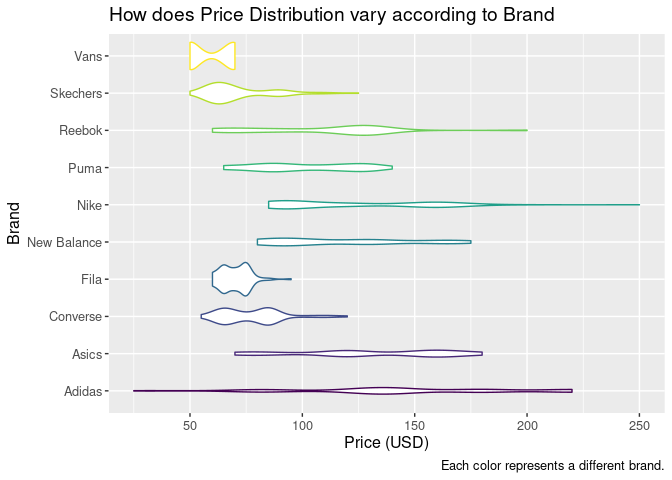
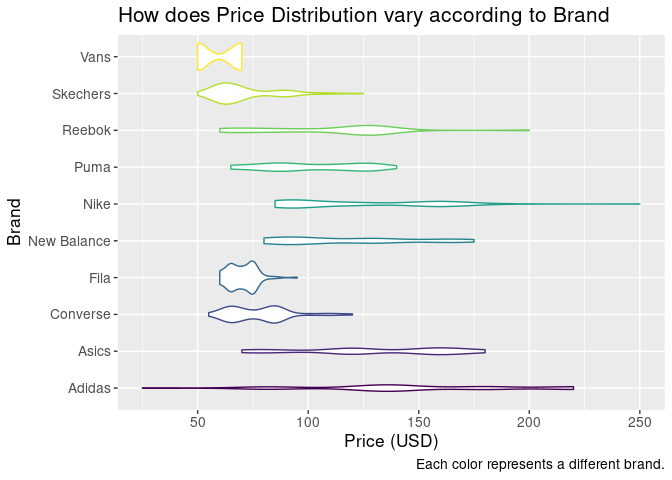
updated shoelati

diff --git a/README.md b/README.md
@@ -6,6 +6,8 @@
 \#insert my hex sticker
 
 <!-- badges: start -->
+
+<img src="man/figures/hex-shoelati.png" width="0.1" />
 <!-- badges: end -->
 
 shoelati uses data on shoes collected from a particular region (last
@@ -115,16 +117,7 @@ ggplot(data = shoelati, mapping = aes(x = price_usd, y = brand, color = brand)) 
        x = "Price (USD)",
        y = "Brand",
        caption = "Each color represents a different brand.") +
-  theme(text = element_text(size = 12))
+  theme(text = element_text(size = 13))
 ```
 
 <img src="man/figures/README-price-brand-1.png" width="100%" />
-
-You’ll still need to render `README.Rmd` regularly, to keep `README.md`
-up-to-date. `devtools::build_readme()` is handy for this. You could also
-use GitHub Actions to re-render `README.Rmd` every time you push. An
-example workflow can be found here:
-<https://github.com/r-lib/actions/tree/v1/examples>.
-
-In that case, don’t forget to commit and push the resulting figure
-files, so they display on GitHub and CRAN.
